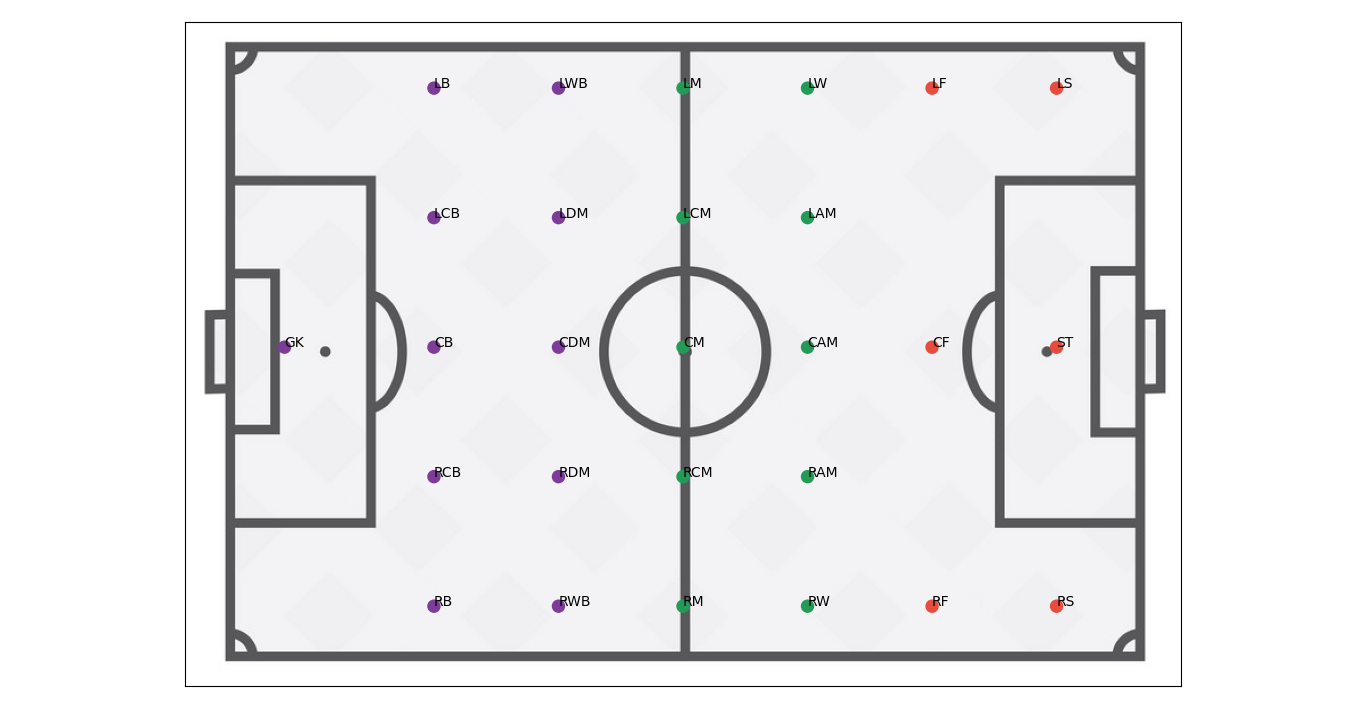
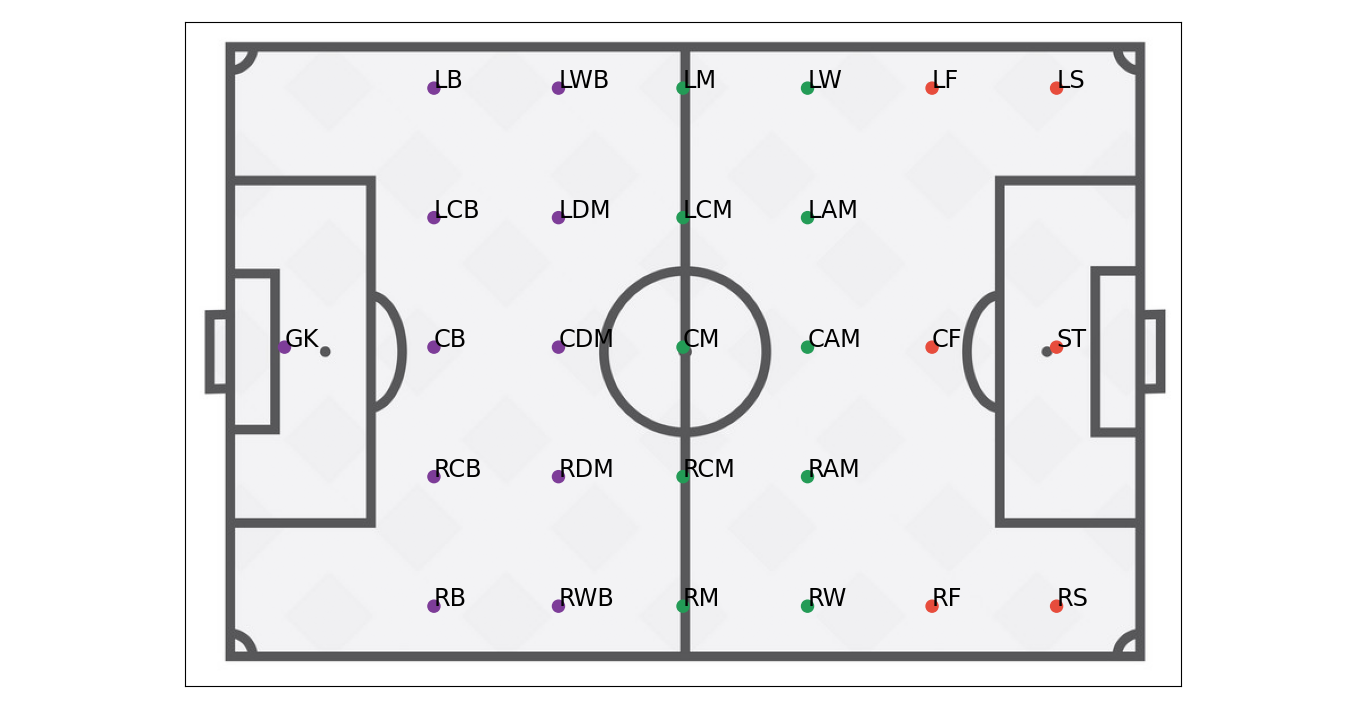
Increase font size to max possible extent
This is on all the 3 football field visualizations

diff --git a/scratch/f19_positional_best.py b/scratch/f19_positional_best.py
@@ -74,7 +74,7 @@ def main():
         else:
             colors.append('#e74c3c') # red instead of firebrick
         plot_y.append(xyl[0])
-        ax.annotate("{}\n{}".format(posvals.loc[cin]['Overall'], posvals.loc[cin]['Name']), (xyl[1], xyl[0]))
+        ax.annotate("{}\n{}".format(posvals.loc[cin]['Overall'], posvals.loc[cin]['Name']), (xyl[1], xyl[0]), fontfamily='sans-serif', fontsize=11)
     print(len(plot_x), len(plot_y))
     print(plot_x)
     print(plot_y)

diff --git a/scratch/f19_position_back.py b/scratch/f19_position_back.py
@@ -78,7 +78,7 @@ def main():
             colors.append('#e74c3c') # red instead of firebrick
         plot_y.append(xyl[0])
         markerSizes.append(counts[cin]*1000)
-        ax.annotate(cin + "\n{:.2f}%".format(counts[cin]*100.0), (xyl[1], xyl[0]))
+        ax.annotate(cin + "\n{:.2f}%".format(counts[cin]*100.0), (xyl[1], xyl[0]), fontfamily='sans-serif', fontsize='xx-large')
     print(len(plot_x), len(plot_y))
     print(plot_x)
     print(plot_y)

diff --git a/scratch/f19_position_viz.py b/scratch/f19_position_viz.py
@@ -74,7 +74,7 @@ def main():
         else:
             colors.append('#e74c3c') # red instead of firebrick
         plot_y.append(xyl[0])
-        ax.annotate("{}".format(posvals.loc[cin]['Position']), (xyl[1], xyl[0]))
+        ax.annotate("{}".format(posvals.loc[cin]['Position']), (xyl[1], xyl[0]), fontfamily='sans-serif', fontsize='xx-large')
     print(len(plot_x), len(plot_y))
     print(plot_x)
     print(plot_y)
